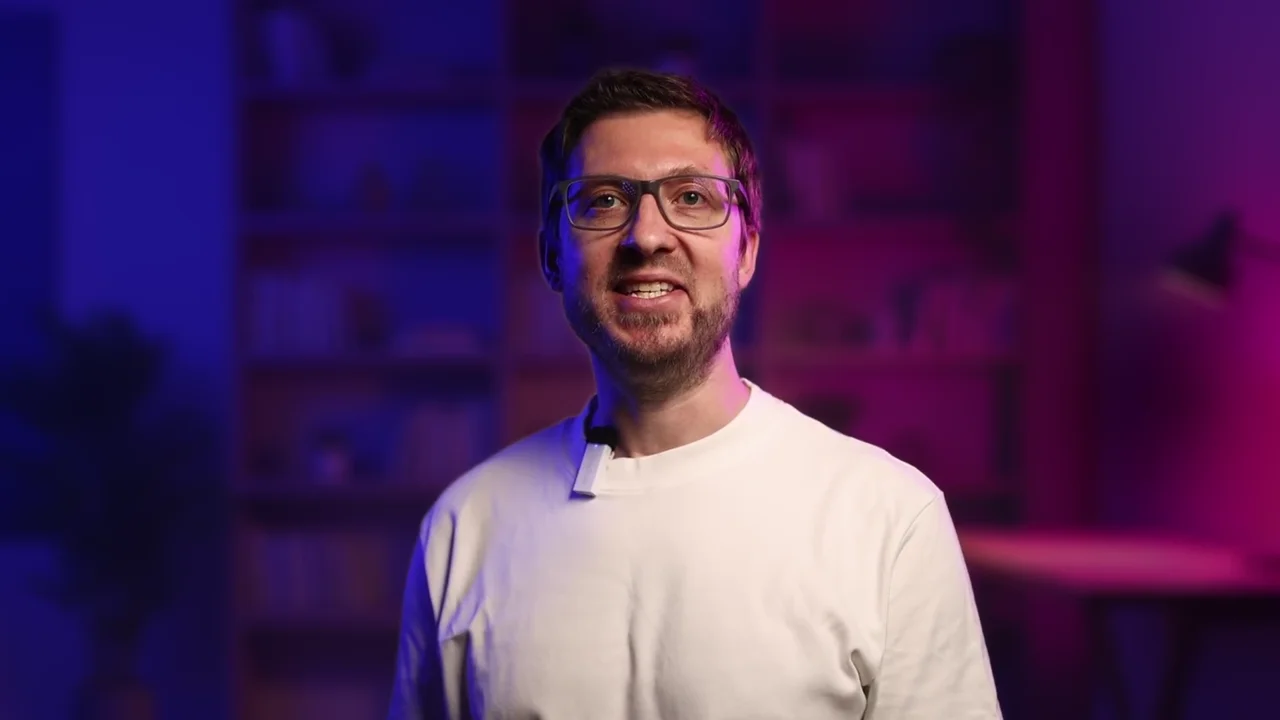
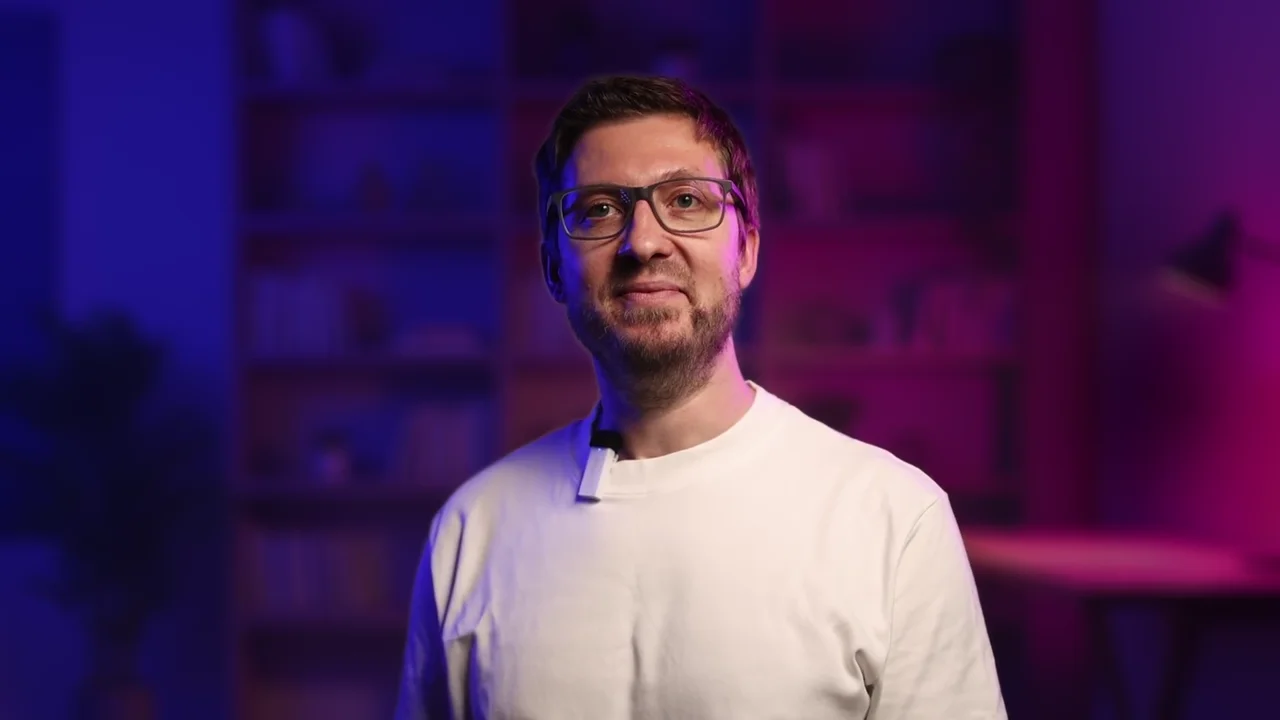
Страна Света: обложки интервью, «Почему Устье», подпись ролика без висящего слова

diff --git a/works/strana-sveta/index.html b/works/strana-sveta/index.html
@@ -23,7 +23,7 @@
   <meta property="og:image:alt" content="Фасад со словом «Устье» в стиле глиняной игрушки">
   <meta name="twitter:card" content="summary_large_image">
   <link rel="stylesheet" href="../../fresh/fresh.css?v=1120e">
-  <link rel="stylesheet" href="../../fresh/v2.css?v=105">
+  <link rel="stylesheet" href="../../fresh/v2.css?v=106">
   <link rel="stylesheet" href="../../fresh/case.css?v=1120e">
   <script>
     document.documentElement.classList.add('js');
@@ -118,7 +118,7 @@
       </div>
 
       <p class="case-main case-lead reveal">Почему Устье</p>
-      <p class="case-main case-p reveal">Сначала мы&nbsp;заявили на&nbsp;конкурс мэппинг про&nbsp;Белое море. Но&nbsp;летом Артем почти месяц жил&nbsp;в&nbsp;Устье у&nbsp;друга: ходили под&nbsp;парусом по&nbsp;Кубенскому озеру, ездили по&nbsp;заброшенным деревням. Прямо оттуда написал организаторам и&nbsp;попросил поменять тему на&nbsp;Устье. Перед отъездом зашел в&nbsp;местную библиотеку, там&nbsp;посоветовали книги про&nbsp;село. Из&nbsp;них&nbsp;и&nbsp;собрали сценарий.</p>
+      <p class="case-main case-p reveal">Сначала мы&nbsp;заявили на&nbsp;конкурс мэппинг про&nbsp;Белое море. Но&nbsp;летом Артем оказался в&nbsp;Устье по&nbsp;приглашению приятеля: почти месяц ходили под&nbsp;парусом по&nbsp;Кубенскому озеру, ездили по&nbsp;заброшенным деревням. Прямо оттуда написал организаторам и&nbsp;попросил поменять тему на&nbsp;Устье. Перед отъездом зашел в&nbsp;местную библиотеку, там&nbsp;посоветовали книги про&nbsp;село. Из&nbsp;них&nbsp;и&nbsp;собрали сценарий.</p>
       <figure class="case-wide reveal">
         <img src="media/mk-air.webp" alt="Устье с высоты: храм на берегу Кубенского озера" width="1920" height="1000" loading="lazy">
       </figure>

diff --git a/fresh/v2.css b/fresh/v2.css
@@ -596,7 +596,7 @@ a.card__media { display: block; }
 .case-grid .case-pair-block { grid-column: 4 / 13; margin: 0; padding: 24px; border-radius: var(--radius); background: rgba(127, 127, 127, .1); }
 .case-pair-block .case-label { margin: 0 0 16px; }
 .case-pair-block .case-pair { grid-column: auto; }
-.case-pair__cap { margin: 16px 0 0; max-width: 46em; font-size: 15px; line-height: 1.45; opacity: .75; }
+.case-pair__cap { margin: 16px 0 0; font-size: 15px; line-height: 1.45; opacity: .75; text-wrap: balance; } /* в одну строку, а если в две — поровну */
 /* Кейс: несколько роликов столбиком справа от задачи (как делали, интервью); на телефоне интервью парой */
 .case-reviews { display: flex; flex-direction: column; gap: 24px; }
 .case-grid .case-reviews { grid-row: 1 / span 3; } /* столбик длиннее задачи: рядом встают и «Почему Устье» с абзацем */

diff --git a/works/khakasia/stol/index.html b/works/khakasia/stol/index.html
@@ -30,7 +30,7 @@
   <meta name="twitter:card" content="summary_large_image">
   <link rel="preload" as="image" href="../../../cases/khakasia/media/interaktivnyj-stol-khakasiya.webp" imagesrcset="../../../cases/khakasia/media/interaktivnyj-stol-khakasiya-960.webp 960w, ../../../cases/khakasia/media/interaktivnyj-stol-khakasiya.webp 1920w" imagesizes="100vw">
   <link rel="stylesheet" href="../../../fresh/fresh.css?v=1120e">
-  <link rel="stylesheet" href="../../../fresh/v2.css?v=105">
+  <link rel="stylesheet" href="../../../fresh/v2.css?v=106">
   <link rel="stylesheet" href="../../../fresh/case.css?v=1120e">
   <script>
     document.documentElement.classList.add('js');

diff --git a/cases/gorodobrazovaniya/index.html b/cases/gorodobrazovaniya/index.html
@@ -23,7 +23,7 @@
   <meta property="og:image:alt" content="Видео и интерактивное расписание для форума «Город образования» — изображение проекта">
   <meta name="twitter:card" content="summary_large_image">
   <link rel="stylesheet" href="../../fresh/fresh.css?v=1120e">
-  <link rel="stylesheet" href="../../fresh/v2.css?v=105">
+  <link rel="stylesheet" href="../../fresh/v2.css?v=106">
   <link rel="stylesheet" href="../../fresh/case.css?v=1120e">
   <script>
     document.documentElement.classList.add('js');

diff --git a/cases/rosatom/index.html b/cases/rosatom/index.html
@@ -23,7 +23,7 @@
   <meta property="og:image:alt" content="Анимационный ролик для конкурса «Миллион Росатома» — изображение проекта">
   <meta name="twitter:card" content="summary_large_image">
   <link rel="stylesheet" href="../../fresh/fresh.css?v=1120e">
-  <link rel="stylesheet" href="../../fresh/v2.css?v=105">
+  <link rel="stylesheet" href="../../fresh/v2.css?v=106">
   <link rel="stylesheet" href="../../fresh/case.css?v=1120e">
   <script>
     document.documentElement.classList.add('js');

diff --git a/cases/yantarny/index.html b/cases/yantarny/index.html
@@ -23,7 +23,7 @@
   <meta property="og:image:alt" content="Видео для комнаты виртуальной реальности на AmberForum — изображение проекта">
   <meta name="twitter:card" content="summary_large_image">
   <link rel="stylesheet" href="../../fresh/fresh.css?v=1120e">
-  <link rel="stylesheet" href="../../fresh/v2.css?v=105">
+  <link rel="stylesheet" href="../../fresh/v2.css?v=106">
   <link rel="stylesheet" href="../../fresh/case.css?v=1120e">
   <script>
     document.documentElement.classList.add('js');

diff --git a/cases/premiarb/index.html b/cases/premiarb/index.html
@@ -23,7 +23,7 @@
   <meta property="og:image:alt" content="Графика для трех экранов на церемонии Премии РБ — изображение проекта">
   <meta name="twitter:card" content="summary_large_image">
   <link rel="stylesheet" href="../../fresh/fresh.css?v=1120e">
-  <link rel="stylesheet" href="../../fresh/v2.css?v=105">
+  <link rel="stylesheet" href="../../fresh/v2.css?v=106">
   <link rel="stylesheet" href="../../fresh/case.css?v=1120e">
   <script>
     document.documentElement.classList.add('js');

diff --git a/cases/hbo/index.html b/cases/hbo/index.html
@@ -23,7 +23,7 @@
   <meta property="og:image:alt" content="3D-заставка к сериалу «Игры Уолл-стрит» на HBO Max — изображение проекта">
   <meta name="twitter:card" content="summary_large_image">
   <link rel="stylesheet" href="../../fresh/fresh.css?v=1120e">
-  <link rel="stylesheet" href="../../fresh/v2.css?v=105">
+  <link rel="stylesheet" href="../../fresh/v2.css?v=106">
   <link rel="stylesheet" href="../../fresh/case.css?v=1120e">
   <script>
     document.documentElement.classList.add('js');

diff --git a/cases/referus/index.html b/cases/referus/index.html
@@ -23,7 +23,7 @@
   <meta property="og:image:alt" content="Игра для стенда «Арнест-Юнирус» на Иннопроме — изображение проекта">
   <meta name="twitter:card" content="summary_large_image">
   <link rel="stylesheet" href="../../fresh/fresh.css?v=1120e">
-  <link rel="stylesheet" href="../../fresh/v2.css?v=105">
+  <link rel="stylesheet" href="../../fresh/v2.css?v=106">
   <link rel="stylesheet" href="../../fresh/case.css?v=1120e">
   <script>
     document.documentElement.classList.add('js');

diff --git a/cases/carrera/index.html b/cases/carrera/index.html
@@ -23,7 +23,7 @@
   <meta property="og:image:alt" content="Концепция линии украшений Aqua для Carrera y Carrera — изображение проекта">
   <meta name="twitter:card" content="summary_large_image">
   <link rel="stylesheet" href="../../fresh/fresh.css?v=1120e">
-  <link rel="stylesheet" href="../../fresh/v2.css?v=105">
+  <link rel="stylesheet" href="../../fresh/v2.css?v=106">
   <link rel="stylesheet" href="../../fresh/case.css?v=1120e">
   <script>
     document.documentElement.classList.add('js');

diff --git a/cases/donstroy/index.html b/cases/donstroy/index.html
@@ -23,7 +23,7 @@
   <meta property="og:image:alt" content="Интерфейс тачскрина для стенда «Донстроя» — изображение проекта">
   <meta name="twitter:card" content="summary_large_image">
   <link rel="stylesheet" href="../../fresh/fresh.css?v=1120e">
-  <link rel="stylesheet" href="../../fresh/v2.css?v=105">
+  <link rel="stylesheet" href="../../fresh/v2.css?v=106">
   <link rel="stylesheet" href="../../fresh/case.css?v=1120e">
   <script>
     document.documentElement.classList.add('js');

diff --git a/cases/rosnano/index.html b/cases/rosnano/index.html
@@ -23,7 +23,7 @@
   <meta property="og:image:alt" content="3D-ролики и тачскрин для стенда «Роснано» — изображение проекта">
   <meta name="twitter:card" content="summary_large_image">
   <link rel="stylesheet" href="../../fresh/fresh.css?v=1120e">
-  <link rel="stylesheet" href="../../fresh/v2.css?v=105">
+  <link rel="stylesheet" href="../../fresh/v2.css?v=106">
   <link rel="stylesheet" href="../../fresh/case.css?v=1120e">
   <script>
     document.documentElement.classList.add('js');
